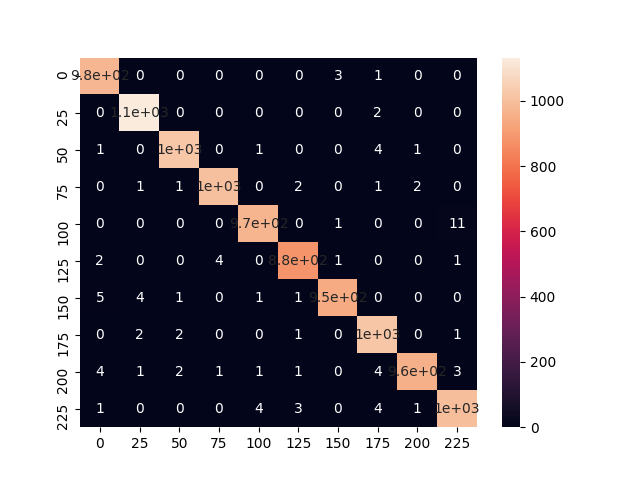
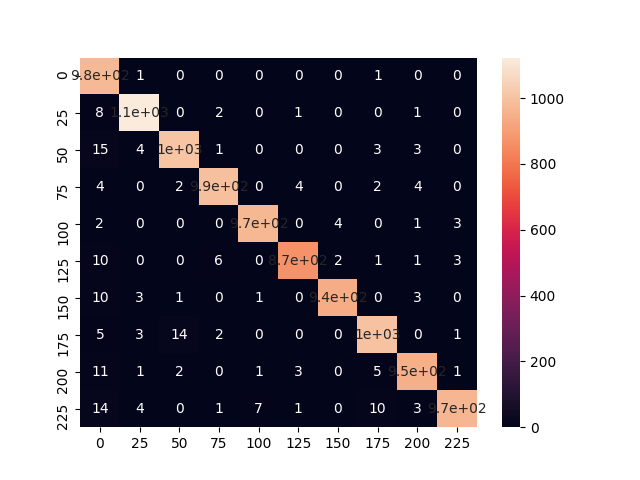
predict timing adjust

diff --git a/functions/TSSLBP.py b/functions/TSSLBP.py
@@ -3,7 +3,7 @@ import torch.nn as nn
 import torch.nn.functional as f
 from time import time
 import global_v as glv
-
+import predict as pre
 
 def psp(inputs, network_config):
     shape = inputs.shape
@@ -70,49 +70,50 @@ class PSP_spike_large_batch(torch.autograd.Function):
         else:
             glv.output_new_dict[name] = outputs
             glv.memb_p_new_dict[name] = mems
-
-        ctx.save_for_backward(mem_updates, outputs, mems, delta_refs, torch.tensor([threshold]))
+        layer_index = glv.layers_name.index(name)
+        ctx.save_for_backward(mem_updates, outputs, mems, delta_refs,\
+                torch.tensor([layer_index]))
         return syns_posts
 
     @staticmethod
     def backward(ctx, grad_delta):
         # in: grad_output: e(l-1)
         # out: grad: delta(l-1)
-        (delta_u, outputs, u, delta_refs, others) = ctx.saved_tensors
+        (delta_u, outputs, u, delta_refs, layer_index) = ctx.saved_tensors
         start_time = time()
         shape = outputs.shape
         n_steps = glv.n_steps
-        threshold = others[0].item()
+        layer_index = layer_index[0].item()
+        name = glv.layers_name[layer_index]
+        threshold = glv.threshold_dict[name]
+        add_or_remove = pre.classify_changes(outputs, u, name)
+        mini_batch = shape[0]
+        partial_a_inter = glv.partial_a.repeat(mini_batch, shape[1], shape[2], shape[3], 1, 1)
+        grad_a = torch.empty_like(delta_u)
 
-        if torch.sum(outputs)/(shape[0] * shape[1] * shape[2] * shape[3] * shape[4]) > 0.1:
-            mini_batch = shape[0]
-            partial_a_inter = glv.partial_a.repeat(mini_batch, shape[1], shape[2], shape[3], 1, 1)
-            grad_a = torch.empty_like(delta_u)
-
-            for i in range(int(shape[0]/mini_batch)):
+        for i in range(int(shape[0]/mini_batch)):
                 # part two, intra-neuron: effect of reset
-                delta_refs_batch = delta_refs[i*mini_batch:(i+1)*mini_batch, ...]
-                partial_a_intra = torch.einsum('...ij, ...jk -> ...ik', partial_a_inter, delta_refs_batch)
+            delta_refs_batch = delta_refs[i*mini_batch:(i+1)*mini_batch, ...]
+            partial_a_intra = torch.einsum('...ij, ...jk -> ...ik', partial_a_inter, delta_refs_batch)
 
                 # part one, inter-neuron + part two, intra-neuron
-                partial_a_all = partial_a_inter + partial_a_intra
+            partial_a_all = partial_a_inter + partial_a_intra
 
-                grad_a[i*mini_batch:(i+1)*mini_batch, ...] = torch.einsum('...ij, ...j -> ...i', partial_a_all, grad_delta[i*mini_batch:(i+1)*mini_batch, ...])
+            grad_a[i*mini_batch:(i+1)*mini_batch, ...] = torch.einsum('...ij, ...j -> ...i', partial_a_all, grad_delta[i*mini_batch:(i+1)*mini_batch, ...])
 
-            partial_u = torch.clamp(-1 / delta_u, -10, 10) * outputs
-            grad = grad_a * partial_u
-        else:
+        partial_u = torch.clamp(-1 / delta_u, -10, 10) * outputs
+        grad = grad_a * partial_u
             # warm up
-            syn = glv.syn_a.repeat(shape[0], shape[1], shape[2], shape[3], 1, 1)
+        syn = glv.syn_a.repeat(shape[0], shape[1], shape[2], shape[3], 1, 1)
 
-            grad_a = torch.einsum('...ij, ...j -> ...i', syn, grad_delta)
+        grad_a_surrogate = torch.einsum('...ij, ...j -> ...i', syn, grad_delta)
 
-            a = 0.2
-            f = torch.clamp((-1 * u + threshold) / a, -8, 8)
-            f = torch.exp(f)
-            f = f / ((1 + f) * (1 + f) * a)
+        a = 0.2
+        f = torch.clamp((-1 * u + threshold) / a, -8, 8)
+        sig = 1 / (1 + torch.exp(f))
+        sig_grad = sig * (1 - sig) / a
 
-            grad = grad_a * f
+        grad = grad_a_surrogate * sig_grad * add_or_remove + grad * sig
         return grad, None, None, None, None, None, None, None, None
 
 

diff --git a/predict.py b/predict.py
@@ -24,7 +24,7 @@ def Pattern_change_predict(outputs, u, k):
         mbp = u[dim1, min_index] # Membrane potential of the current time step
         near_by = near_by & ((near_by&(nopp==1)&((1<=mbp)&(mbp<1.8)))|\
                 (near_by&(nopp==0)&((0.2<mbp)&(mbp<1))))
-    return new_output
+    return new_output, outputs
 
 def Accuracy_stat(predict, answer, ori_output):
     shape = answer.shape
@@ -58,7 +58,24 @@ def Spike_train_predict():
     memb_p_ori_dict = glv.memb_p_ori_dict
     memb_p_new_dict = glv.memb_p_new_dict
     for k in output_ori_dict.keys():
-        predict = Pattern_change_predict(output_ori_dict[k],\
+        predict,_ = Pattern_change_predict(output_ori_dict[k],\
                 memb_p_ori_dict[k], k)
         glv.accuracy_stat_dict[k] = Accuracy_stat(predict, output_new_dict[k],\
                 output_ori_dict[k])
+    return
+
+def classify_changes(outputs, u, k):
+    predict, outputs = Pattern_change_predict(outputs, u, k)
+    time_steps = glv.n_steps
+    predict = predict.T > 0
+    outputs = outputs.T > 0
+    #dim1 = glv.dims_dict[k]
+    changes = predict ^ outputs
+    for i in range(time_steps-1):
+        spike_move = changes[i] & changes[i+1] & (outputs[i+1] ^ outputs[i]) &\
+            (predict[i+1] ^ predict[i])
+        changes[i] = changes[i] & (~spike_move)
+        changes[i+1] = changes[i+1] & (~spike_move)
+    return changes.view(u.shape).float()
+        #if k+str(i) not in glv.dims_dict:
+        #    glv.dims_dict[k+str(i)] = i * torch.ones(len(dim1),device=glv.devic

diff --git a/global_v.py b/global_v.py
@@ -11,14 +11,16 @@ tau_s = None
 def init(dty, dev, params):   # a(t_k) = (1/tau)exp(-(t_k-t_m)/tau)H(t_k-t_m)
     global dtype, device, n_steps, partial_a, syn_a, tau_s, stat_flag,\
     output_ori_dict, output_new_dict, memb_p_ori_dict, memb_p_new_dict,\
-    accuracy_stat_dict, threshold_dict, dims_dict
+    accuracy_stat_dict, threshold_dict, dims_dict, layers_name
     dtype = dty
     device = dev
     n_steps = params['Network']['n_steps']
     tau_s = params['Network']['tau_s']
     threshold_dict = {}
     layers_config = params['Layers']
+    layers_name = []
     for key in layers_config:
+        layers_name += [key]
         threshold_dict[key] = layers_config[key]['threshold']
     stat_flag  = False
     output_ori_dict = {}
